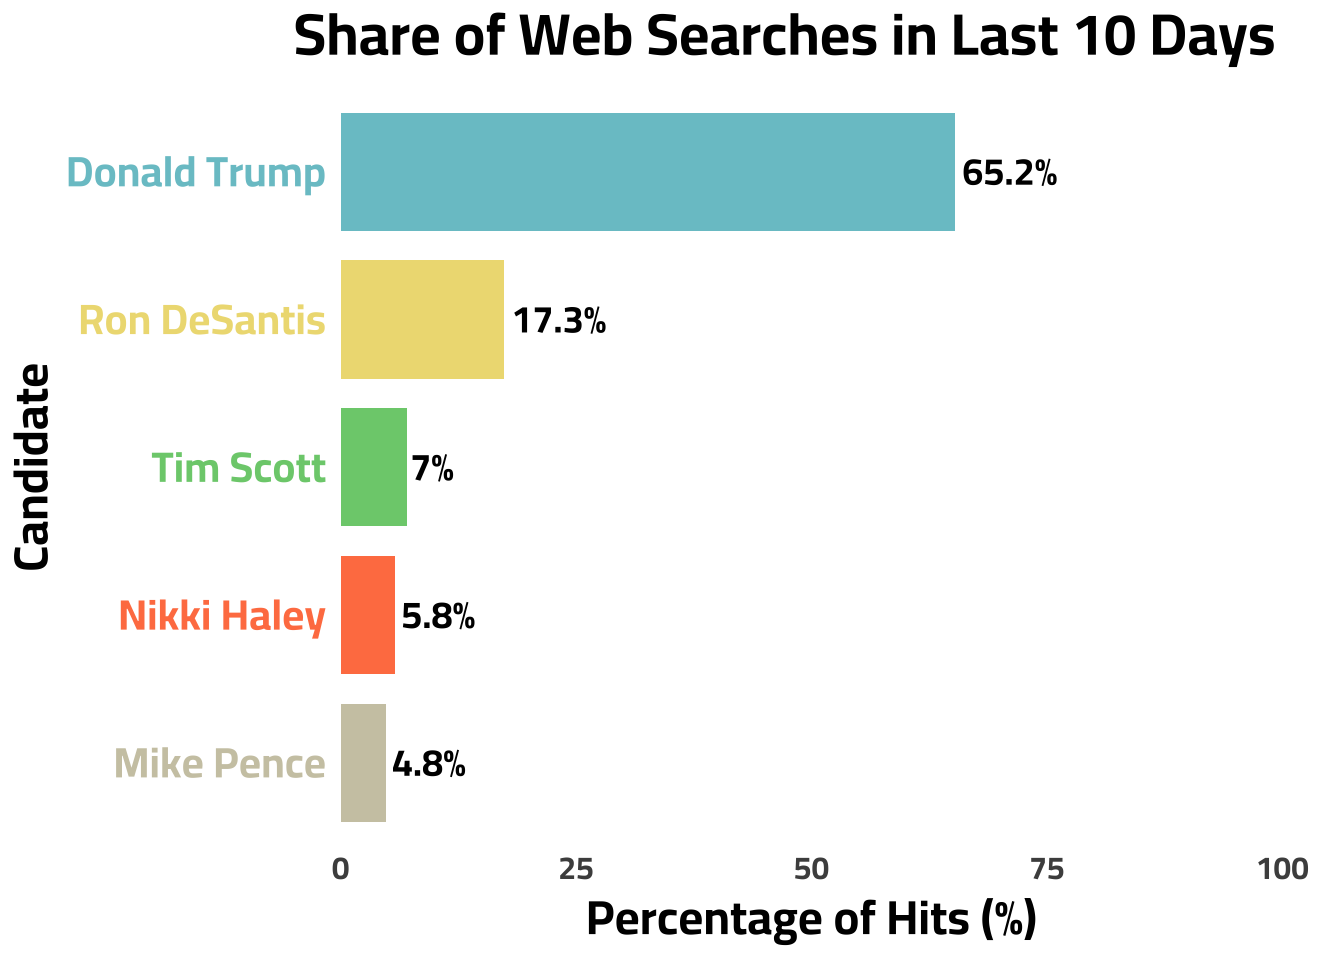
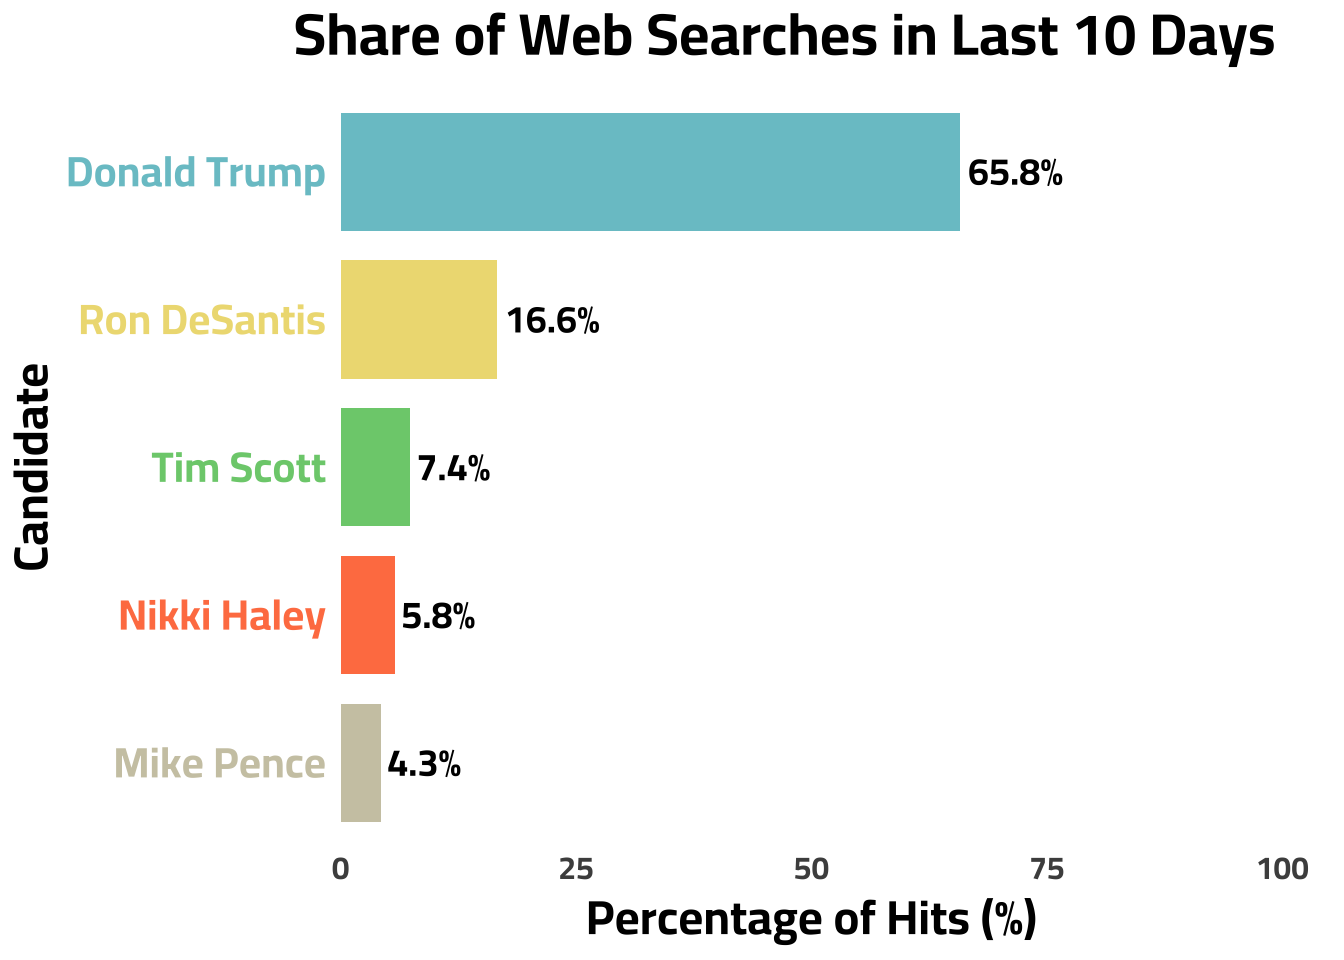
StreamGraph Update

diff --git a/_site/blog.html b/_site/blog.html
@@ -178,7 +178,7 @@ ul.task-list li input[type="checkbox"] {
 
 <div class="quarto-listing quarto-listing-container-default" id="listing-listing">
 <div class="list quarto-listing-default">
-<div class="quarto-post image-right" data-index="0" data-categories="Google Trends,Data Journalism,Politics,CICD" data-listing-date-sort="1689033600000" data-listing-file-modified-sort="1693052544630" data-listing-date-modified-sort="NaN" data-listing-reading-time-sort="7">
+<div class="quarto-post image-right" data-index="0" data-categories="Google Trends,Data Journalism,Politics,CICD" data-listing-date-sort="1689033600000" data-listing-file-modified-sort="1693138863720" data-listing-date-modified-sort="NaN" data-listing-reading-time-sort="7">
 <div class="thumbnail">
 <p><a href="./posts/primary_stream/index.html"> <img src="././about_files/primary_1.png" class="thumbnail-image"> </a></p>
 </div>
@@ -215,7 +215,7 @@ Jul 11, 2023
 </a>
 </div>
 </div>
-<div class="quarto-post image-right" data-index="1" data-categories="Life Hacks,Quarto" data-listing-date-sort="1688601600000" data-listing-file-modified-sort="1693052544630" data-listing-date-modified-sort="NaN" data-listing-reading-time-sort="3">
+<div class="quarto-post image-right" data-index="1" data-categories="Life Hacks,Quarto" data-listing-date-sort="1688601600000" data-listing-file-modified-sort="1693138863722" data-listing-date-modified-sort="NaN" data-listing-reading-time-sort="3">
 <div class="thumbnail">
 <p><a href="./posts/simple_analytics/index.html"> <img src="./about_files/Simple_Analytics.png" class="thumbnail-image"> </a></p>
 </div>
@@ -246,7 +246,7 @@ Jul 6, 2023
 </a>
 </div>
 </div>
-<div class="quarto-post image-right" data-index="2" data-categories="Data Journalism,Google Trends,Politics" data-listing-date-sort="1687824000000" data-listing-file-modified-sort="1693052544628" data-listing-date-modified-sort="NaN" data-listing-reading-time-sort="7">
+<div class="quarto-post image-right" data-index="2" data-categories="Data Journalism,Google Trends,Politics" data-listing-date-sort="1687824000000" data-listing-file-modified-sort="1693138863718" data-listing-date-modified-sort="NaN" data-listing-reading-time-sort="7">
 <div class="thumbnail">
 <p><a href="./posts/google_trends/index.html"> <img src="./about_files/byteman.png" class="thumbnail-image"> </a></p>
 </div>
@@ -280,7 +280,7 @@ Jun 27, 2023
 </a>
 </div>
 </div>
-<div class="quarto-post image-right" data-index="3" data-categories="Data Journalism,LDS,R" data-listing-date-sort="1675728000000" data-listing-file-modified-sort="1693052544629" data-listing-date-modified-sort="NaN" data-listing-reading-time-sort="4">
+<div class="quarto-post image-right" data-index="3" data-categories="Data Journalism,LDS,R" data-listing-date-sort="1675728000000" data-listing-file-modified-sort="1693138863719" data-listing-date-modified-sort="NaN" data-listing-reading-time-sort="4">
 <div class="thumbnail">
 <p><a href="./posts/income_myth/index.html"> <img src="./about_files/LDS_myth_0.png" class="thumbnail-image"> </a></p>
 </div>
@@ -314,7 +314,7 @@ Feb 7, 2023
 </a>
 </div>
 </div>
-<div class="quarto-post image-right" data-index="4" data-categories="Life Hacks,Quarto" data-listing-date-sort="1662076800000" data-listing-file-modified-sort="1693052544630" data-listing-date-modified-sort="NaN" data-listing-reading-time-sort="3">
+<div class="quarto-post image-right" data-index="4" data-categories="Life Hacks,Quarto" data-listing-date-sort="1662076800000" data-listing-file-modified-sort="1693138863721" data-listing-date-modified-sort="NaN" data-listing-reading-time-sort="3">
 <div class="thumbnail">
 <p><a href="./posts/resume/index.html"> <img src="./about_files/resume_2.png" class="thumbnail-image"> </a></p>
 </div>
@@ -345,7 +345,7 @@ Sep 2, 2022
 </a>
 </div>
 </div>
-<div class="quarto-post image-right" data-index="5" data-categories="Survey Research,Data Journalism,LDS" data-listing-date-sort="1646265600000" data-listing-file-modified-sort="1693052544627" data-listing-date-modified-sort="NaN" data-listing-reading-time-sort="7">
+<div class="quarto-post image-right" data-index="5" data-categories="Survey Research,Data Journalism,LDS" data-listing-date-sort="1646265600000" data-listing-file-modified-sort="1693138863709" data-listing-date-modified-sort="NaN" data-listing-reading-time-sort="7">
 <div class="thumbnail">
 <p><a href="./posts/7_facts/index.html"> <img src="https://www.ldstemple.pics/wp-content/uploads/washington-dc-temple-final-sunset-600x600.jpg" class="thumbnail-image"> </a></p>
 </div>
@@ -379,7 +379,7 @@ Mar 3, 2022
 </a>
 </div>
 </div>
-<div class="quarto-post image-right" data-index="6" data-categories="Data Journalism,R" data-listing-date-sort="1618012800000" data-listing-file-modified-sort="1693052544628" data-listing-date-modified-sort="NaN" data-listing-reading-time-sort="4">
+<div class="quarto-post image-right" data-index="6" data-categories="Data Journalism,R" data-listing-date-sort="1618012800000" data-listing-file-modified-sort="1693138863718" data-listing-date-modified-sort="NaN" data-listing-reading-time-sort="4">
 <div class="thumbnail">
 <p><a href="./posts/facebook_data/index.html"> <img src="./about_files/fb_icon" class="thumbnail-image"> </a></p>
 </div>
@@ -410,7 +410,7 @@ Apr 10, 2021
 </a>
 </div>
 </div>
-<div class="quarto-post image-right" data-index="7" data-categories="Data Journalism,R,Survey Research,LDS,Politics" data-listing-date-sort="1607472000000" data-listing-file-modified-sort="1693052544629" data-listing-date-modified-sort="NaN" data-listing-reading-time-sort="8">
+<div class="quarto-post image-right" data-index="7" data-categories="Data Journalism,R,Survey Research,LDS,Politics" data-listing-date-sort="1607472000000" data-listing-file-modified-sort="1693138863719" data-listing-date-modified-sort="NaN" data-listing-reading-time-sort="8">
 <div class="thumbnail">
 <p><a href="./posts/lds_gop/index.html"> <img src="./about_files/iu-3.jpeg" class="thumbnail-image"> </a></p>
 </div>
@@ -450,7 +450,7 @@ Dec 9, 2020
 </a>
 </div>
 </div>
-<div class="quarto-post image-right" data-index="8" data-categories="Data Journalism,R" data-listing-date-sort="1594339200000" data-listing-file-modified-sort="1693052544627" data-listing-date-modified-sort="NaN" data-listing-reading-time-sort="7">
+<div class="quarto-post image-right" data-index="8" data-categories="Data Journalism,R" data-listing-date-sort="1594339200000" data-listing-file-modified-sort="1693138863717" data-listing-date-modified-sort="NaN" data-listing-reading-time-sort="7">
 <div class="thumbnail">
 <p><a href="./posts/cars/index.html"> <img src="https://media.giphy.com/media/rUE9CTmsYMbbOz2MqD/giphy.gif" class="thumbnail-image"> </a></p>
 </div>
@@ -481,7 +481,7 @@ Jul 10, 2020
 </a>
 </div>
 </div>
-<div class="quarto-post image-right" data-index="9" data-categories="Data Journalism,R,Shiny" data-listing-date-sort="1591660800000" data-listing-file-modified-sort="1693052544629" data-listing-date-modified-sort="NaN" data-listing-reading-time-sort="7">
+<div class="quarto-post image-right" data-index="9" data-categories="Data Journalism,R,Shiny" data-listing-date-sort="1591660800000" data-listing-file-modified-sort="1693138863720" data-listing-date-modified-sort="NaN" data-listing-reading-time-sort="7">
 <div class="thumbnail">
 <p><a href="./posts/mobility/index.html"> <img src="./about_files/iu-2.jpeg" class="thumbnail-image"> </a></p>
 </div>

diff --git a/_site/projects.html b/_site/projects.html
@@ -178,7 +178,7 @@ ul.task-list li input[type="checkbox"] {
 
 <div class="quarto-listing quarto-listing-container-grid" id="listing-listing">
 <div class="list grid quarto-listing-cols-3">
-<div class="g-col-1" data-index="0" data-categories="Capstone,Python,Stats" data-listing-date-sort="1682899200000" data-listing-file-modified-sort="1693052544647" data-listing-date-modified-sort="NaN" data-listing-reading-time-sort="4">
+<div class="g-col-1" data-index="0" data-categories="Capstone,Python,Stats" data-listing-date-sort="1682899200000" data-listing-file-modified-sort="1693138863755" data-listing-date-modified-sort="NaN" data-listing-reading-time-sort="4">
 <a href="./projects/internet_archive/index.html" class="quarto-grid-link">
 <div class="quarto-grid-item card h-100 card-left">
 <p class="card-img-top">
@@ -211,7 +211,7 @@ May 1, 2023
 </div>
 </a>
 </div>
-<div class="g-col-1" data-index="1" data-categories="Python,Stats,Dataviz" data-listing-date-sort="1660867200000" data-listing-file-modified-sort="1693052544641" data-listing-date-modified-sort="NaN" data-listing-reading-time-sort="10">
+<div class="g-col-1" data-index="1" data-categories="Python,Stats,Dataviz" data-listing-date-sort="1660867200000" data-listing-file-modified-sort="1693138863744" data-listing-date-modified-sort="NaN" data-listing-reading-time-sort="10">
 <a href="./projects/bayesian_county/index.html" class="quarto-grid-link">
 <div class="quarto-grid-item card h-100 card-left">
 <p class="card-img-top">
@@ -244,7 +244,7 @@ Aug 19, 2022
 </div>
 </a>
 </div>
-<div class="g-col-1" data-index="2" data-categories="CI/CD,R,Dataviz" data-listing-date-sort="1636329600000" data-listing-file-modified-sort="1693052544641" data-listing-date-modified-sort="NaN" data-listing-reading-time-sort="3">
+<div class="g-col-1" data-index="2" data-categories="CI/CD,R,Dataviz" data-listing-date-sort="1636329600000" data-listing-file-modified-sort="1693138863745" data-listing-date-modified-sort="NaN" data-listing-reading-time-sort="3">
 <a href="./projects/covid_update/index.html" class="quarto-grid-link">
 <div class="quarto-grid-item card h-100 card-left">
 <p class="card-img-top">
@@ -277,7 +277,7 @@ Nov 8, 2021
 </div>
 </a>
 </div>
-<div class="g-col-1" data-index="3" data-categories="Dataviz,Stats,R" data-listing-date-sort="1600387200000" data-listing-file-modified-sort="1693052544643" data-listing-date-modified-sort="NaN" data-listing-reading-time-sort="2">
+<div class="g-col-1" data-index="3" data-categories="Dataviz,Stats,R" data-listing-date-sort="1600387200000" data-listing-file-modified-sort="1693138863753" data-listing-date-modified-sort="NaN" data-listing-reading-time-sort="2">
 <a href="./projects/election_model/index.html" class="quarto-grid-link">
 <div class="quarto-grid-item card h-100 card-left">
 <p class="card-img-top">
@@ -310,7 +310,7 @@ Sep 18, 2020
 </div>
 </a>
 </div>
-<div class="g-col-1" data-index="4" data-categories="R,Shiny" data-listing-date-sort="1596153600000" data-listing-file-modified-sort="1693052544648" data-listing-date-modified-sort="NaN" data-listing-reading-time-sort="2">
+<div class="g-col-1" data-index="4" data-categories="R,Shiny" data-listing-date-sort="1596153600000" data-listing-file-modified-sort="1693138863755" data-listing-date-modified-sort="NaN" data-listing-reading-time-sort="2">
 <a href="./projects/peanuts/index.html" class="quarto-grid-link">
 <div class="quarto-grid-item card h-100 card-left">
 <p class="card-img-top">
@@ -340,7 +340,7 @@ Jul 31, 2020
 </div>
 </a>
 </div>
-<div class="g-col-1" data-index="5" data-categories="Capstone,R,Stats" data-listing-date-sort="1587772800000" data-listing-file-modified-sort="1693052544650" data-listing-date-modified-sort="NaN" data-listing-reading-time-sort="6">
+<div class="g-col-1" data-index="5" data-categories="Capstone,R,Stats" data-listing-date-sort="1587772800000" data-listing-file-modified-sort="1693138863770" data-listing-date-modified-sort="NaN" data-listing-reading-time-sort="6">
 <a href="./projects/star_wars_capstone/index.html" class="quarto-grid-link">
 <div class="quarto-grid-item card h-100 card-left">
 <p class="card-img-top">

diff --git a/_site/posts/primary_stream/index.html b/_site/posts/primary_stream/index.html
@@ -181,7 +181,7 @@ Note
 </div>
 </div>
 <div class="callout-body-container callout-body">
-<p>This graph is updated on a daily basis to provide continuous context to the GOP Primary Election. This graph was last updated: 12:22:31 on 26 Aug 2023</p>
+<p>This graph is updated on a daily basis to provide continuous context to the GOP Primary Election. This graph was last updated: 12:21:12 on 27 Aug 2023</p>
 </div>
 </div>
 <div class="cell">
@@ -234,7 +234,7 @@ Note
 </div>
 </div>
 <div class="callout-body-container callout-body">
-<p>This graph is updated on a daily basis to provide continuous context to the GOP Primary Election. This graph was last updated: 12:22:39 on 26 Aug 2023</p>
+<p>This graph is updated on a daily basis to provide continuous context to the GOP Primary Election. This graph was last updated: 12:21:20 on 27 Aug 2023</p>
 </div>
 </div>
 <p>This graph is provided to give a barometer reading of a candidates <em>recent</em> popularity/news coverage.</p>
